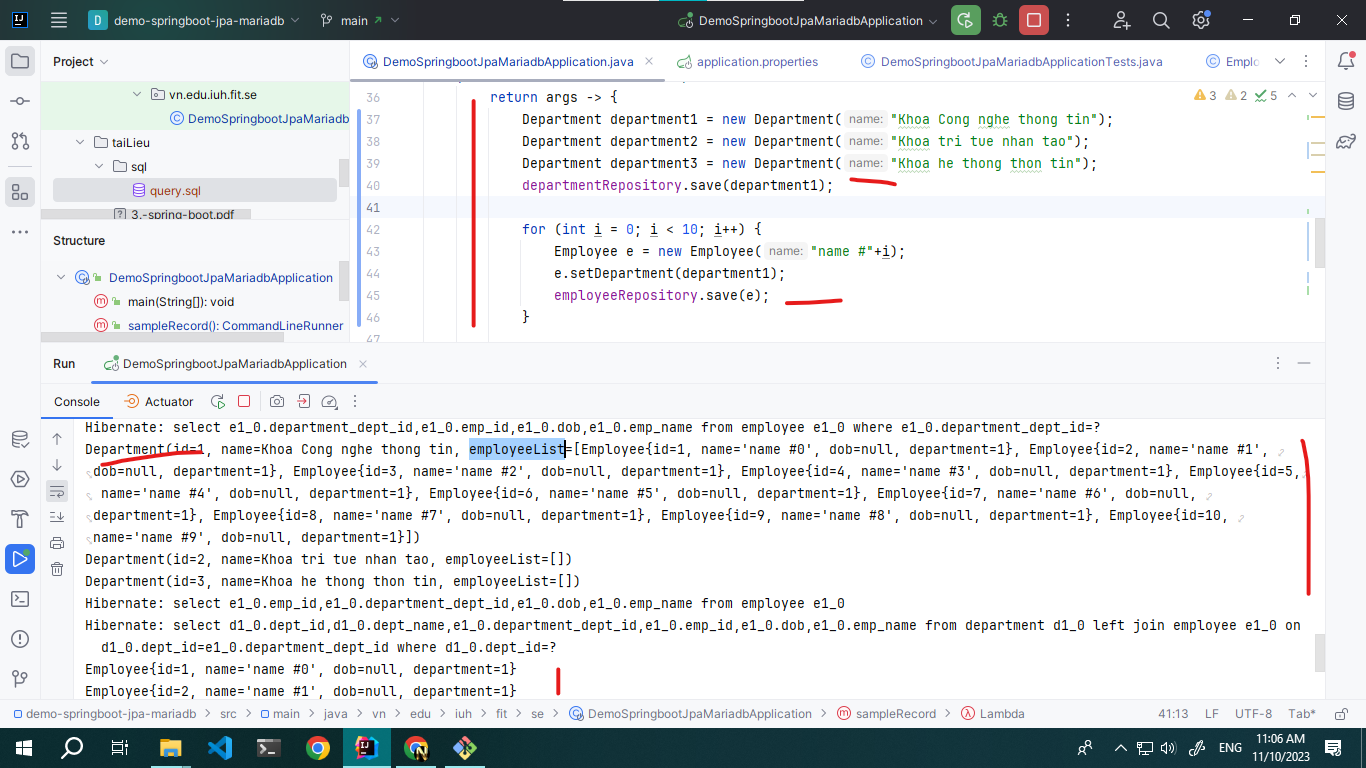
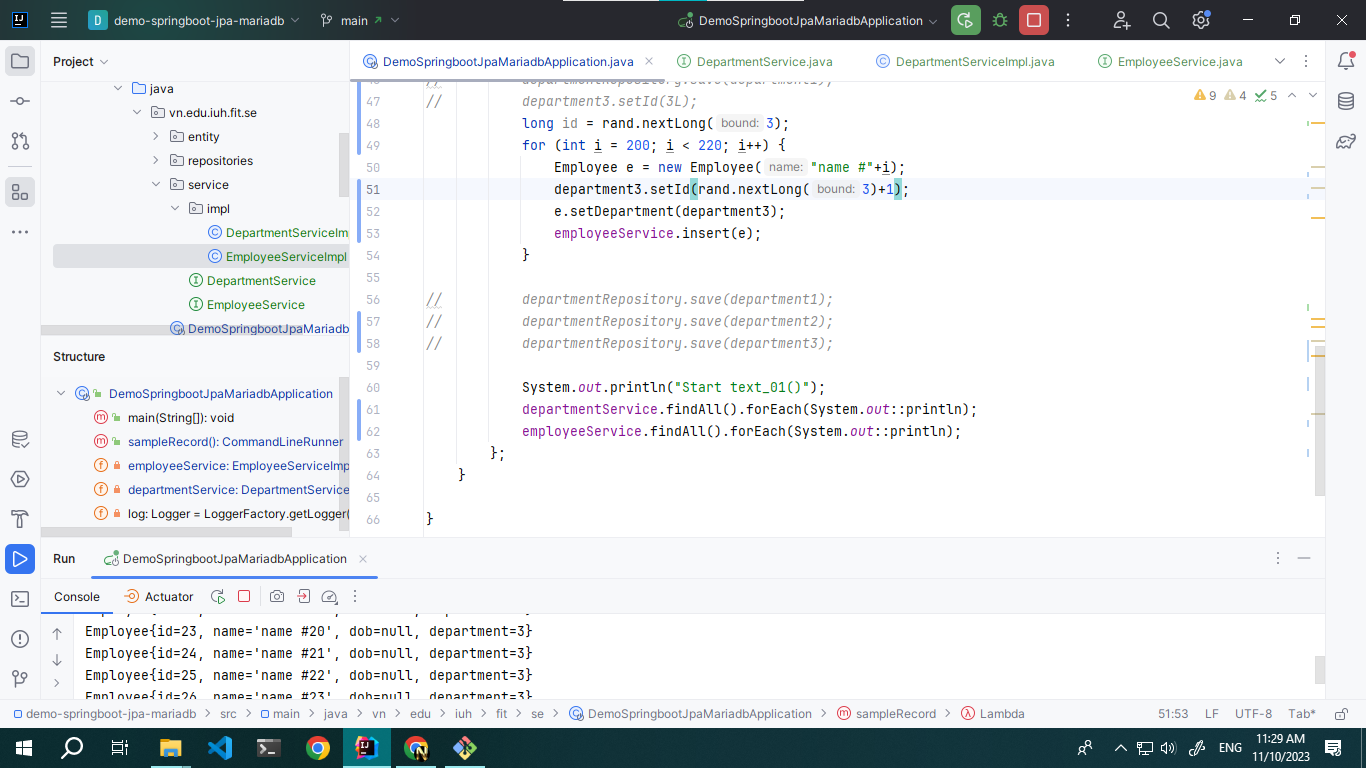
z1: finish service

diff --git a/Demo/demo-springboot-jpa-mariadb/src/main/java/vn/edu/iuh/fit/se/DemoSpringbootJpaMariadbApplication.java b/Demo/demo-springboot-jpa-mariadb/src/main/java/vn/edu/iuh/fit/se/DemoSpringbootJpaMariadbApplication.java
@@ -11,18 +11,22 @@ import vn.edu.iuh.fit.se.entity.Department;
 import vn.edu.iuh.fit.se.entity.Employee;
 import vn.edu.iuh.fit.se.repositories.DepartmentRepository;
 import vn.edu.iuh.fit.se.repositories.EmployeeRepository;
+import vn.edu.iuh.fit.se.service.EmployeeService;
+import vn.edu.iuh.fit.se.service.impl.DepartmentServiceImpl;
+import vn.edu.iuh.fit.se.service.impl.EmployeeServiceImpl;
 
 import java.util.ArrayList;
 import java.util.List;
+import java.util.Random;
 
 @SpringBootApplication
 public class DemoSpringbootJpaMariadbApplication {
 
 	@Autowired
-	private EmployeeRepository employeeRepository;
+	private EmployeeServiceImpl employeeService;
 
 	@Autowired
-	private DepartmentRepository departmentRepository;
+	private DepartmentServiceImpl departmentService;
 
 	private static final Logger log = LoggerFactory.getLogger(DemoSpringbootJpaMariadbApplication.class);
 
@@ -34,24 +38,28 @@ public class DemoSpringbootJpaMariadbApplication {
 	@Bean
 	public CommandLineRunner sampleRecord (){
 		return args -> {
+			Random rand = new Random();
+
 			Department department1 = new Department("Khoa Cong nghe thong tin");
 			Department department2 = new Department("Khoa tri tue nhan tao");
 			Department department3 = new Department("Khoa he thong thon tin");
-			departmentRepository.save(department1);
-
-			for (int i = 0; i < 10; i++) {
+//			departmentRepository.save(department1);
+//			department3.setId(3L);
+			long id = rand.nextLong(3);
+			for (int i = 200; i < 220; i++) {
 				Employee e = new Employee("name #"+i);
-				e.setDepartment(department1);
-				employeeRepository.save(e);
+				department3.setId(rand.nextLong(3)+1);
+				e.setDepartment(department3);
+				employeeService.insert(e);
 			}
 
 //			departmentRepository.save(department1);
-			departmentRepository.save(department2);
-			departmentRepository.save(department3);
+//			departmentRepository.save(department2);
+//			departmentRepository.save(department3);
 
 			System.out.println("Start text_01()");
-			departmentRepository.findAll().forEach(System.out::println);
-			employeeRepository.findAll().forEach(System.out::println);
+			departmentService.findAll().forEach(System.out::println);
+			employeeService.findAll().forEach(System.out::println);
 		};
 	}
 

diff --git a/Demo/demo-springboot-jpa-mariadb/src/main/java/vn/edu/iuh/fit/se/service/impl/DepartmentServiceImpl.java b/Demo/demo-springboot-jpa-mariadb/src/main/java/vn/edu/iuh/fit/se/service/impl/DepartmentServiceImpl.java
@@ -1,0 +1,41 @@
+package vn.edu.iuh.fit.se.service.impl;
+
+
+import org.springframework.beans.factory.annotation.Autowired;
+import org.springframework.stereotype.Service;
+import vn.edu.iuh.fit.se.entity.Department;
+import vn.edu.iuh.fit.se.repositories.DepartmentRepository;
+import vn.edu.iuh.fit.se.service.DepartmentService;
+
+import java.util.List;
+import java.util.Optional;
+
+@Service
+public class DepartmentServiceImpl implements DepartmentService {
+    @Autowired
+    private DepartmentRepository repository;
+    @Override
+    public void insert(Department department) {
+        repository.save(department);
+    }
+
+    @Override
+    public void update(Department department) {
+        repository.save(department);
+    }
+
+    @Override
+    public void delete(long maXoa) {
+        repository.deleteById(maXoa);
+    }
+
+    @Override
+    public Optional<Department> findById(long maTim) {
+        return repository.findById(maTim) ;
+    }
+
+    @Override
+    public List<Department> findAll() {
+        return repository.findAll();
+    }
+}

diff --git a/Demo/demo-springboot-jpa-mariadb/src/main/java/vn/edu/iuh/fit/se/service/impl/EmployeeServiceImpl.java b/Demo/demo-springboot-jpa-mariadb/src/main/java/vn/edu/iuh/fit/se/service/impl/EmployeeServiceImpl.java
@@ -1,0 +1,35 @@
+package vn.edu.iuh.fit.se.service.impl;
+
+import org.springframework.beans.factory.annotation.Autowired;
+import org.springframework.stereotype.Service;
+import vn.edu.iuh.fit.se.entity.Employee;
+import vn.edu.iuh.fit.se.repositories.EmployeeRepository;
+import vn.edu.iuh.fit.se.service.EmployeeService;
+
+import java.util.List;
+import java.util.Optional;
+
+@Service
+public class EmployeeServiceImpl implements EmployeeService {
+    @Autowired
+    private EmployeeRepository repository;
+    @Override
+    public void insert(Employee employee) {
+        repository.save(employee);
+    }
+
+    @Override
+    public void delete(long maXoa) {
+        repository.deleteById(maXoa);
+    }
+
+    @Override
+    public Optional<Employee> findById(long maTim) {
+        return repository.findById(maTim);
+    }
+
+    @Override
+    public List<Employee> findAll() {
+        return repository.findAll();
+    }
+}

diff --git a/Demo/demo-springboot-jpa-mariadb/src/main/java/vn/edu/iuh/fit/se/service/DepartmentService.java b/Demo/demo-springboot-jpa-mariadb/src/main/java/vn/edu/iuh/fit/se/service/DepartmentService.java
@@ -1,0 +1,14 @@
+package vn.edu.iuh.fit.se.service;
+
+import vn.edu.iuh.fit.se.entity.Department;
+
+import java.util.List;
+import java.util.Optional;
+
+public interface DepartmentService {
+    void insert(Department department);
+    void update(Department department);
+    void delete(long maXoa);
+    Optional<Department> findById(long maTim);
+    List<Department> findAll();
+}

diff --git a/Demo/demo-springboot-jpa-mariadb/src/main/java/vn/edu/iuh/fit/se/service/EmployeeService.java b/Demo/demo-springboot-jpa-mariadb/src/main/java/vn/edu/iuh/fit/se/service/EmployeeService.java
@@ -1,0 +1,13 @@
+package vn.edu.iuh.fit.se.service;
+
+import vn.edu.iuh.fit.se.entity.Employee;
+
+import java.util.List;
+import java.util.Optional;
+
+public interface EmployeeService {
+    void insert(Employee employee);
+    void delete(long maXoa);
+    Optional<Employee> findById(long maTim);
+    List<Employee> findAll();
+}
